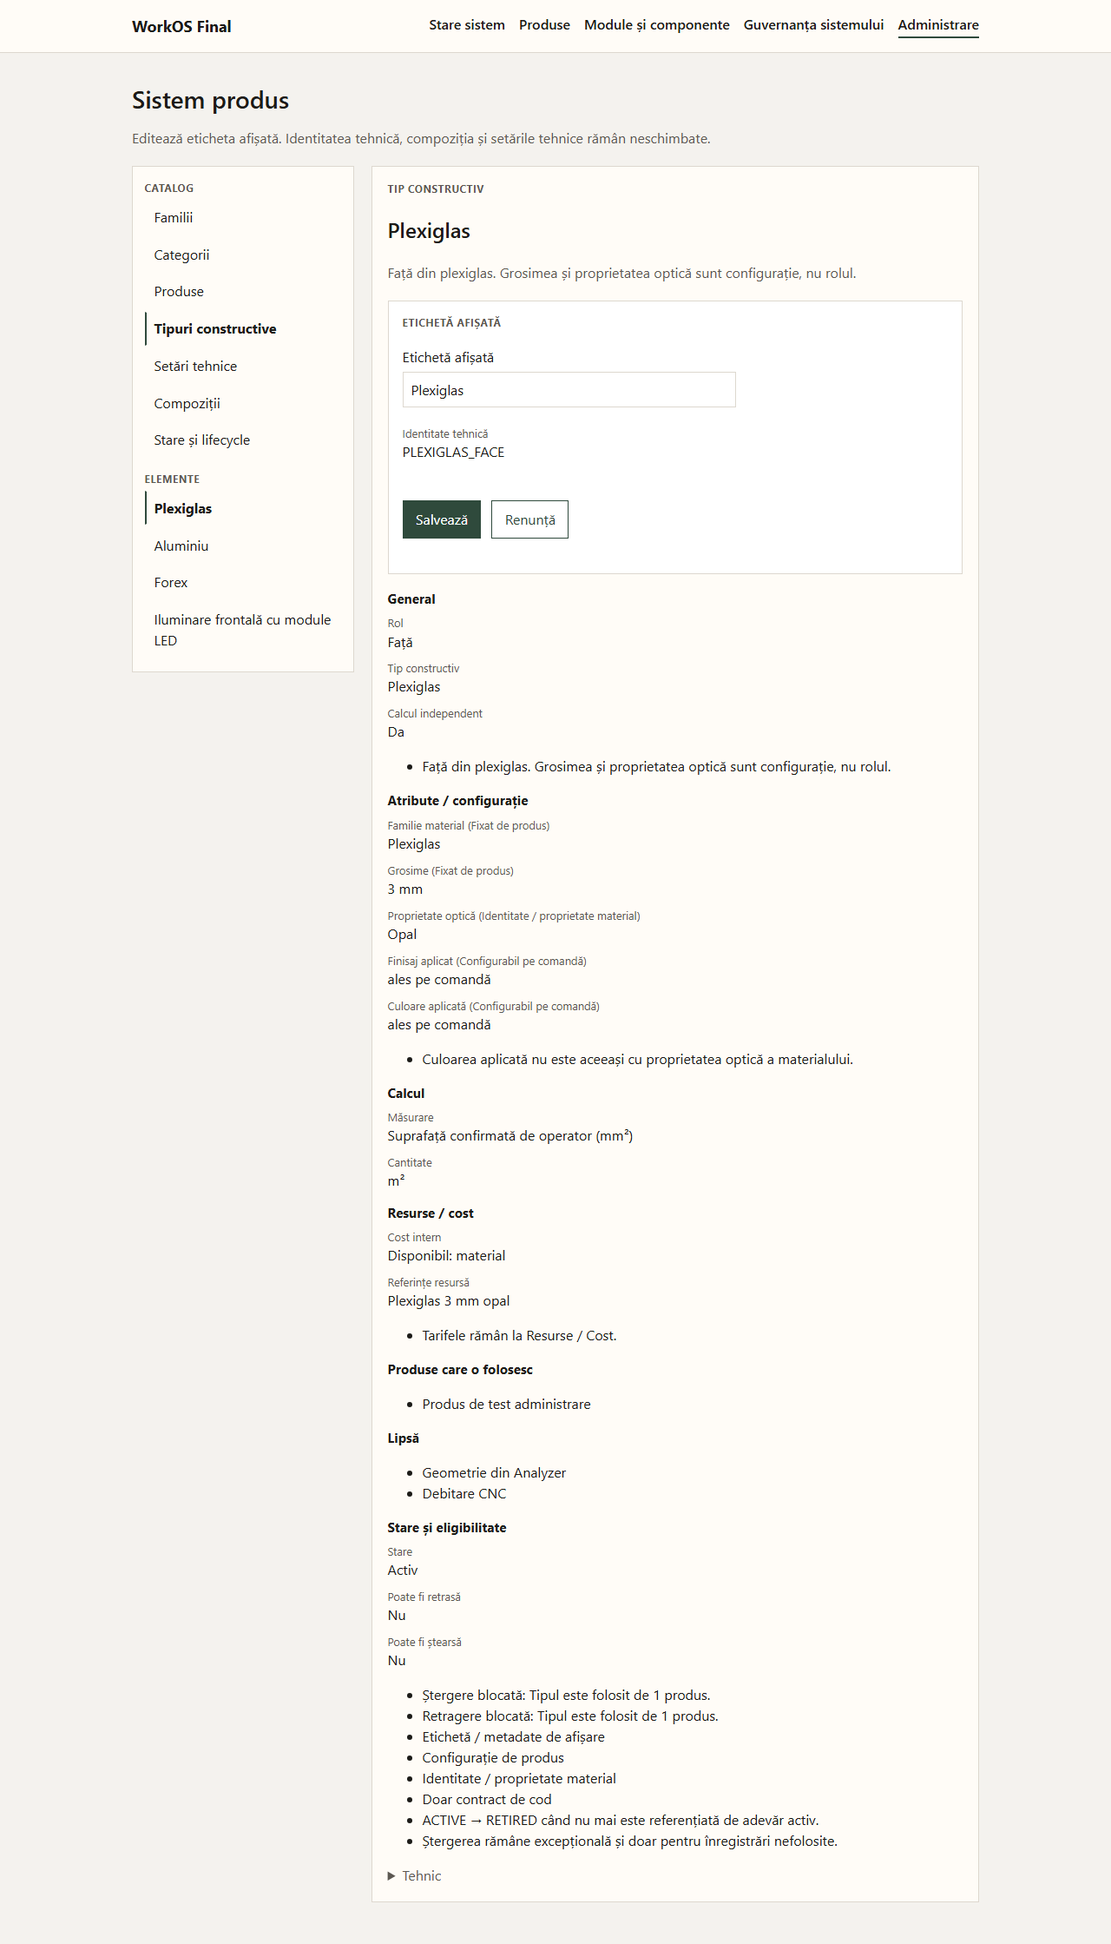
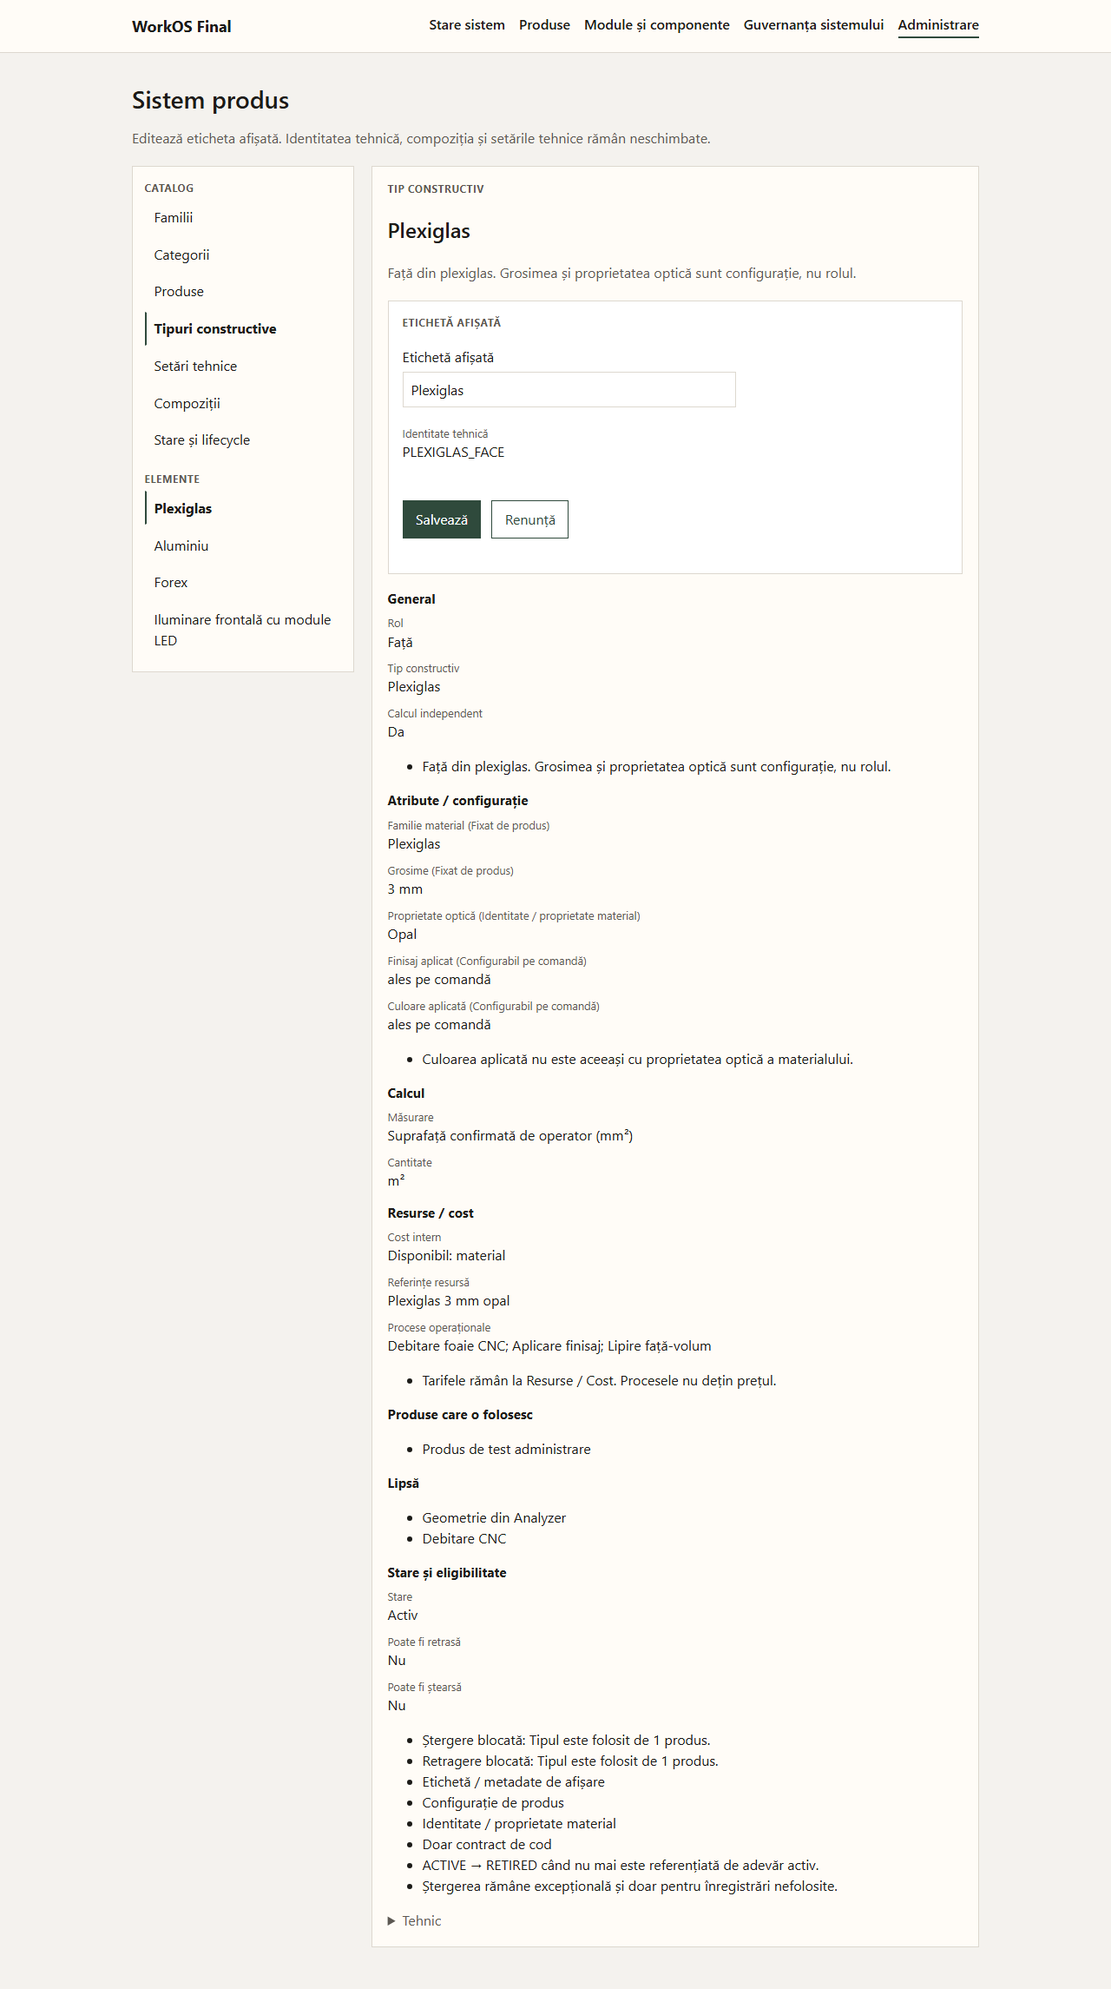
docs: record the Operational Processes foundation
Canon separates HOW work is done from WHAT is consumed. Workcenters, machines, and Execution stay out of this foundation.

diff --git a/docs/architecture/WORKOS_FINAL_SYSTEM_DOMAIN_AND_ADMINISTRATION_MAP.md b/docs/architecture/WORKOS_FINAL_SYSTEM_DOMAIN_AND_ADMINISTRATION_MAP.md
@@ -7,6 +7,8 @@ This document does not store adjustable runtime values.
 Related current canons:
 
 - `docs/architecture/PRODUCT_SYSTEM_TECHNICAL_SETTINGS_CANON.md` — technical settings single-truth
+- `docs/architecture/RESOURCES_AND_COST_CANON.md` — resource identity and cost evidence
+- `docs/architecture/OPERATIONAL_PROCESSES_CANON.md` — process definition and capability class
 - `docs/roadmap/WORKOS_FINAL_ROADMAP_V1.md` — construction order and finalization status
 - `packages/domain/src/capabilities.ts` — frozen capability IDs (kernel status remains PLANNED by design)
 - `packages/domain/src/governance/projection.ts` — honest implemented vs planned runtime projection
@@ -70,12 +72,14 @@ WorkOS Final
 │   ├── Form schema
 │   ├── ProductDefinition / ProductTruth
 │   └── ProductAggregate
-├── Resources / Cost                        FOUNDATION_ONLY (pilot catalog + EIC)
+├── Resources / Cost                        FOUNDATION_ONLY (catalog + EIC)
 │   ├── Resource identity
 │   ├── Cost evidence / rates
-│   ├── Operational processes               PLANNED
-│   ├── Labor / service recipes             PLANNED
-│   └── Workcenters                         PLANNED
+│   └── Labor / service recipes             PLANNED
+├── Operational Processes                   FOUNDATION_ONLY (typed catalog)
+│   ├── Process definition
+│   ├── Production capability class
+│   └── Component applicability
 ├── Governance / owner projections          IMPLEMENTED_CURRENT (read-only)
 ├── Analyzer                                NOT_IMPLEMENTED (separate app; proposal only)
 ├── Commercial                              PLANNED
@@ -108,7 +112,8 @@ Capability kernel IDs stay frozen and `PLANNED`. That does not mean the first pr
 | Product System | Family, category, template, composition, variants, component technical settings, allowed configuration | Purchase rates, commercial price, execution actuals, attendance |
 | Form / Intake | Schema, fields, visibility, order-specific operator input | System technical settings, formulas, rates, Product Truth |
 | Truth compiler | ProductDefinition, confirmation of the reviewed definition, ProductTruth, ProductAggregate | Resource catalogs, commercial price, actuals |
-| Resources / Cost | Resource identity, material family/spec, cost evidence, EIC | Customer price, stock, Product Truth, attendance, pontaj-as-price |
+| Resources / Cost | Resource identity, material family/spec, cost evidence, EIC | Process identity, customer price, stock, Product Truth, attendance |
+| Operational Processes | Process definition, required capability class, type applicability | Resource price, ExecutionTask, machine identity, employee |
 | Commercial | Customer price rules, Quote Snapshot, Order commercial freeze | EIC authority, ProductTemplate, execution actuals |
 | Execution | Plan, tasks, assignments, MachineRun, operational actuals | Attendance truth, rewriting Product Truth, historical commercial reprice |
 | People | Employee master, attendance / Pontaj, payments, advances | Execution session, labor recipe / cost basis, Product Truth |
@@ -147,7 +152,7 @@ Do not merge internal cost with Commercial. Do not put stock here.
 
 Admin inspection lives under `/admin` → Resurse și cost intern. No resource write yet.
 
-Current live catalog: Plexiglas 3 mm opal, Forex 10 mm, aluminium return profile 0.6 mm, forming service. Operational processes, labor recipes, and workcenters remain planned.
+Current live catalog: Plexiglas 3 mm opal, Forex 10 mm, aluminium return profile 0.6 mm, forming service. Labor recipes remain planned. Operational processes are a separate foundation.
 
 ## People / Angajați
 
@@ -283,7 +288,8 @@ Inside Administrare, use catalog navigation (category → item → detail), not 
 ```text
 Administrare
 ├── Sistem produs
-└── Resurse și cost intern
+├── Resurse și cost intern
+└── Procese operaționale
 ```
 
 Later domains (Persoane, Utilaje, Execuție, Pontaj, Setări platformă) stay off this catalog until they have real truth. Do not ship empty admin categories.
@@ -294,7 +300,7 @@ Later domains (Persoane, Utilaje, Execuție, Pontaj, Setări platformă) stay of
 |---|---|---|
 | Operator | Daily workflow | `/products` configure → review → confirm |
 | Owner projection | System honesty / inspection | `/components`, `/governance` |
-| Admin | Configure or inspect system truth | `/admin` — Product System display-label write; Resources inspection |
+| Admin | Configure or inspect system truth | `/admin` — Product System display-label write; Resources and Processes inspection |
 
 Do not mix system configuration into daily workflow.
 
@@ -343,7 +349,8 @@ Settings versions: keep previous active values as history after a new version is
 | Pilot resource catalog + partial EIC | FOUNDATION_ONLY |
 | Settings edit / persistence / versioning | PLANNED |
 | Global Administrare nav / display-label write | IMPLEMENTED_CURRENT |
-| Operational processes, labor recipes, workcenters | PLANNED |
+| Operational Processes foundation (typed catalog + capability class) | DONE / FOUNDATION |
+| Process admin write, labor recipes, workcenters | PLANNED / NOT_IMPLEMENTED |
 | Machines, People, Pontaj, Execution | PLANNED |
 | Commercial, Quote Snapshot, Order Snapshot | PLANNED |
 | Reporting, Documents | PLANNED |

diff --git a/docs/architecture/OPERATIONAL_PROCESSES_CANON.md b/docs/architecture/OPERATIONAL_PROCESSES_CANON.md
@@ -1,0 +1,96 @@
+# Operational Processes canon
+
+Canonical current law for reusable operational process definitions and shop-floor capability classes.
+Runtime wins if this document disagrees.
+
+## Permanent separation
+
+```text
+PRODUCT / COMPONENT
+  → says WHAT must exist
+PRODUCT AGGREGATE
+  → says WHAT quantities are required
+RESOURCE
+  → says WHAT is consumed and what it costs internally
+OPERATIONAL PROCESS
+  → says HOW work is performed
+CAPABILITY CLASS
+  → says WHAT kind of station / machine / skill can perform it
+EXECUTION TASK
+  → later says THIS job must perform THIS process
+MACHINE / WORKCENTER
+  → later provides the capability and may be selected
+EMPLOYEE
+  → later says WHO performs or assists
+```
+
+Do not collapse these layers.
+
+## Process definition
+
+A process has a stable ID, a Romanian display label, a category, one required capability class, applicable constructive types, a semantic outcome, optional resource/service references, lifecycle, and readiness.
+
+It does not have: machine ID, employee ID, order ID, actual time, assignment, or a global sequence number.
+
+## Capability class
+
+Shop-floor capability is not the architectural kernel in `capabilities.ts`.
+
+```text
+OperationalProcess → requires CapabilityClass
+Workcenter / Machine → later provides CapabilityClass
+Execution → later selects the concrete provider
+```
+
+Kinds in this foundation: MACHINE, WORKSTATION, HUMAN_SKILL.
+
+## Applicability and composition
+
+A process is reusable. `CUT_SHEET_CNC` applies to FACE and BACK.
+
+ProductTemplate / component composition will later choose required processes.
+Dependencies belong to that composition, not to a global 1/2/3 sequence.
+
+There must be exactly one future process-composition source. It compiles into ExecutionPlan.
+Rejected parallel authorities: dossier task rules, Intake dry-run tasks, separate product-graph task lists.
+
+## Resource / cost boundary
+
+A process may reference a Resource/Service. Forming references `return_cant_forming`.
+
+The process is not the price row. Resources / Cost remains monetary authority.
+EIC stays on ResourceRequirements. This foundation does not rewrite EIC.
+
+`return_cant_forming` is both:
+
+- a costable SERVICE resource
+- referenced by process `FORM_ALUMINIUM_PROFILE`
+
+They are linked, not merged.
+
+## Current live / known set
+
+| Process | Category | Capability | Types | Readiness |
+|---|---|---|---|---|
+| `CUT_SHEET_CNC` | CUTTING | CNC_ROUTING | FACE, BACK | KNOWN_PROCESS |
+| `FORM_ALUMINIUM_PROFILE` | FORMING | PROFILE_FORMING | VOLUME | IMPLEMENTED_PROCESS_FOUNDATION |
+| `APPLY_SURFACE_FINISH` | FINISHING | VINYL_APPLICATION | FACE, VOLUME | PLANNED |
+| `BOND_LETTER_BODY` | ASSEMBLY | MANUAL_ASSEMBLY | FACE, VOLUME | PLANNED |
+| `PLACE_LED_MODULES` | ELECTRICAL | ELECTRICAL_ASSEMBLY | LIGHTING | BLOCKED |
+
+QC, packing, installation prep, and a full Letters DAG are not modelled.
+
+## Persistence and administration
+
+Typed catalog is authority. No process write. No SQLite process table.
+
+`/admin` → Procese operaționale is inspection: Categorii, Procese, Capabilități necesare.
+`/products` does not administer processes.
+
+## Reserved, not implemented
+
+- ExecutionPlan / ExecutionTask
+- Workcenters / Machines / capacity
+- Labor recipes / employee wage
+- CNC pricing / geometry
+- Process CRUD

diff --git a/docs/worklog/WORKOS_FINAL_OPERATIONAL_PROCESSES_FOUNDATION_V1.md b/docs/worklog/WORKOS_FINAL_OPERATIONAL_PROCESSES_FOUNDATION_V1.md
@@ -1,0 +1,96 @@
+# WORKOS_FINAL_OPERATIONAL_PROCESSES_FOUNDATION_V1
+
+## Baseline
+
+- Repo: `office952/workos-final`
+- Branch: `main`
+- Expected baseline: `73474e93c69a4d1cd4ef54e9df3a4993ceb7af5b`
+
+## Legacy audit
+
+Current repo had no process catalog. FACE/BACK gaps named „Debitare CNC”. VOLUME consumed `return_cant_forming` as a SERVICE cost row, not as HOW.
+
+Canon already rejected three parallel legacy task truths: dossier rules, Intake dry-run tasks, product-graph lists. Machine SKU on process is a rejected pattern. Architectural `capabilities.ts` IDs are system ownership, not shop-floor capability.
+
+`office952/workos-vscode` was not present locally; rejected patterns were taken from the current administration map, not copied as code.
+
+## Accepted process model
+
+```text
+COMPONENT / PRODUCT
+  → PROCESS REQUIREMENT (derived applicability)
+    → OPERATIONAL PROCESS
+      → CAPABILITY CLASS
+        → later WORKCENTER / MACHINE
+        → later EXECUTION TASK
+```
+
+`return_cant_forming` remains the SERVICE price row.
+`FORM_ALUMINIUM_PROFILE` is the process that may consume it.
+
+## Current process set
+
+| ID | Readiness | Why included |
+|---|---|---|
+| `CUT_SHEET_CNC` | KNOWN_PROCESS | Reusable machine process; FACE + BACK |
+| `FORM_ALUMINIUM_PROFILE` | IMPLEMENTED_PROCESS_FOUNDATION | Live service link; VOLUME |
+| `APPLY_SURFACE_FINISH` | PLANNED | Finish exists as order config |
+| `BOND_LETTER_BODY` | PLANNED | Manual process without employee |
+| `PLACE_LED_MODULES` | BLOCKED | Lighting / PSU incomplete |
+
+QC, packing, installation, and a full DAG were left NOT_YET_MODELLED.
+
+## Capability model
+
+CNC_ROUTING, PROFILE_FORMING, MANUAL_ASSEMBLY, VINYL_APPLICATION, ELECTRICAL_ASSEMBLY.
+Kinds: MACHINE / WORKSTATION / HUMAN_SKILL.
+No machine IDs. No reuse of PRODUCT/EXECUTION kernel IDs.
+
+## Component applicability
+
+Derived from `applicableTypeIds`. Not copied into ProductTemplate or `calculate()`.
+
+## Boundaries
+
+- Resources: forming references the service; process does not own amount/currency
+- EIC: unchanged 320.50 EUR
+- Machines / workcenters: documented relation only
+- Execution: future task may store `processId`; catalog has no instance fields
+- Dependencies: no global sequence; composition later
+
+## Cleanup
+
+No process arrays were found on templates. No machine coupling to remove. CNC remains a gap on FACE/BACK calculation, now also a named process.
+
+## UI
+
+`/admin` → Procese operaționale: Categorii / Procese / Capabilități necesare. Read-only.
+`/components` shows process labels on the type. `/products` unchanged.
+
+## Tests
+
+- `pnpm lint` PASS
+- `pnpm typecheck` PASS
+- `pnpm test` PASS (domain 87, api 17, web 17)
+- `pnpm build` PASS
+- `pnpm e2e` PASS (6)
+- `git diff --check` PASS
+
+Canonical product EIC remains 320.50 EUR PARTIAL.
+
+## Persistence
+
+Typed catalog. No process SQLite table. No write.
+
+## Remaining gaps
+
+- Product/process composition for Letters
+- Workcenters / Machines
+- Labor recipes
+- CNC pricing / geometry
+- Lighting after PSU
+- Process write
+
+## Next recommendation
+
+Re-evaluate among: Letters process composition, Workcenters/Machines, Lighting after PSU, versioned settings write, labor recipes. Do not auto-pick.

diff --git a/AGENTS.md b/AGENTS.md
@@ -8,7 +8,7 @@ It is not a cleanup or fork of previous WorkOS repositories.
 Hierarchical product catalog plus first canonical LETTERS product.
 FACE / VOLUME / BACK / LIGHTING are stable component roles. Constructive types and product configuration are separate. See `docs/architecture/PRODUCT_SYSTEM_COMPONENT_CONFIGURATION_CANON.md`.
 Owner-facing projections: Module și componente, Guvernanța sistemului, Administrare.
-`/components` is the Product System inspection surface. `/admin` is the owner surface: Product System display-label write and Resources / Cost inspection. The first persisted write is display-label only.
+`/components` is the Product System inspection surface. `/admin` is the owner surface: Product System display-label write, Resources / Cost inspection, and Operational Processes inspection. The first persisted write is display-label only.
 Cross-system domain and administration map is canonical; do not invent a second admin model per domain.
 ProductTemplate composes roles/types and owns allowed/fixed configuration. ProductAggregate orchestrates. EIC is generic.
 LIGHTING remains unavailable: LED pitch is a canonical component setting; PSU reserve remains owner-undecided.
@@ -44,4 +44,4 @@ Do not implement Commercial, Quote, ACM, Analyzer runtime, a second catalog prod
 
 ## Bootstrap proof
 
-The current app has a platform shell, a real health check, a product catalog, Product System inspection on `/components`, persisted display-label administration on `/admin`, Resources / Cost inspection under `/admin/resources`, owner-facing governance, one canonical front-lit plexi/aluminium letters product, component-owned FACE / VOLUME / BACK calculations with partial internal EIC, a reusable material-family/specification catalog, canonical component technical settings, and lighting left unavailable because PSU reserve is still owner-undecided.
+The current app has a platform shell, a real health check, a product catalog, Product System inspection on `/components`, persisted display-label administration on `/admin`, Resources / Cost inspection under `/admin/resources`, Operational Processes inspection under `/admin/processes`, owner-facing governance, one canonical front-lit plexi/aluminium letters product, component-owned FACE / VOLUME / BACK calculations with partial internal EIC, a reusable material-family/specification catalog, a typed operational-process catalog with shop-floor capability classes, canonical component technical settings, and lighting left unavailable because PSU reserve is still owner-undecided.

diff --git a/docs/README.md b/docs/README.md
@@ -11,6 +11,7 @@ These describe the live system. If they disagree with runtime, the runtime wins 
 - `docs/architecture/PRODUCT_SYSTEM_COMPONENT_CONFIGURATION_CANON.md` — role / type / configuration law
 - `docs/architecture/PRODUCT_SYSTEM_PERSISTENCE_CANON.md` — persisted display metadata and first write path
 - `docs/architecture/RESOURCES_AND_COST_CANON.md` — resource identity, material family/spec, cost evidence
+- `docs/architecture/OPERATIONAL_PROCESSES_CANON.md` — process definition and shop-floor capability class
 - `docs/architecture/WORKOS_FINAL_SYSTEM_DOMAIN_AND_ADMINISTRATION_MAP.md` — cross-system domain and administration map
 - `docs/worklog/WORKOS_FINAL_COMPONENT_FIRST_CALCULATION_ARCHITECTURE_V1.md` — current calculation ownership
 - `docs/worklog/WORKOS_FINAL_COMPONENTS_AND_GOVERNANCE_PROJECTION_V1.md` — owner-facing projections
@@ -21,6 +22,7 @@ These describe the live system. If they disagree with runtime, the runtime wins 
 - `docs/worklog/WORKOS_FINAL_COMPONENT_CONFIGURATION_MODEL_REALIGNMENT_AND_CLEANUP_V1.md` — role/type/configuration realignment
 - `docs/worklog/WORKOS_FINAL_PRODUCT_SYSTEM_PERSISTENCE_AND_FIRST_WRITE_PATH_V1.md` — first persisted display-label write
 - `docs/worklog/WORKOS_FINAL_RESOURCES_AND_COST_CATALOG_FOUNDATION_V1.md` — Resources / Cost catalog foundation
+- `docs/worklog/WORKOS_FINAL_OPERATIONAL_PROCESSES_FOUNDATION_V1.md` — Operational Processes foundation
 
 ## Historical evidence
 

diff --git a/docs/roadmap/WORKOS_FINAL_ROADMAP_V1.md b/docs/roadmap/WORKOS_FINAL_ROADMAP_V1.md
@@ -41,6 +41,7 @@ FACE / VOLUME / BACK / LIGHTING are component roles with reusable constructive t
 Owner-facing projections exist for components, governance, Product System administration, and Resources / Cost inspection. Display labels are persisted.
 ProductAggregate orchestrates. EIC consumes generic requirements.
 Resources now separate material family, specification, service, and cost evidence.
+Operational Processes now separate HOW work is done from WHAT is consumed.
 LIGHTING remains technically partial: LED pitch is a canonical component setting; PSU reserve remains unresolved.
 VOLUME EIC regression preserved (formerly RETURN_CANT).
 
@@ -69,7 +70,8 @@ Cross-system ownership: `docs/architecture/WORKOS_FINAL_SYSTEM_DOMAIN_AND_ADMINI
 | Product System administration foundation (inspection) | DONE / FOUNDATION |
 | Product System first real admin write path (display label) | DONE / FOUNDATION |
 | Resources / Cost catalog foundation (identity, family/spec, service, cost evidence) | DONE / FOUNDATION |
-| Resources admin write | NOT_IMPLEMENTED |
+| Operational Processes foundation (process + capability class) | DONE / FOUNDATION |
+| Resources admin write / process admin write | NOT_IMPLEMENTED |
 | Lighting calculation | V1 REQUIRED after PSU owner decision |
 | People, Machines, Pontaj, Execution | LATER |
 | Commercial, Quote Snapshot, Order Snapshot | LATER |

diff --git a/README.md b/README.md
@@ -6,7 +6,7 @@ This is not a cleanup of previous WorkOS code and not a fork of workflow-adv.
 
 ## Current status
 
-Product catalog plus first canonical LETTERS product, with FACE / VOLUME / BACK / LIGHTING as roles, reusable constructive types, Product System inspection on `/components`, persisted display-label administration on `/admin`, Resources / Cost inspection on `/admin/resources`, owner-facing governance, canonical component technical settings, and lighting left incomplete because PSU reserve is still owner-undecided.
+Product catalog plus first canonical LETTERS product, with FACE / VOLUME / BACK / LIGHTING as roles, reusable constructive types, Product System inspection on `/components`, persisted display-label administration on `/admin`, Resources / Cost inspection on `/admin/resources`, Operational Processes inspection on `/admin/processes`, owner-facing governance, canonical component technical settings, and lighting left incomplete because PSU reserve is still owner-undecided.
 
 The app has a platform shell, a real health check, a hierarchical product catalog, and a schema-driven configuration flow for the first canonical product. Product System display labels persist in local SQLite after bootstrap. Resources remain a typed catalog. Technical settings, lifecycle, resource cost, and commercial price are not writable yet.
 

diff --git a/docs/architecture/RESOURCES_AND_COST_CANON.md b/docs/architecture/RESOURCES_AND_COST_CANON.md
@@ -32,7 +32,7 @@ Live kinds:
 - `SERVICE` — operational/process cost consumed, not a physical material
 
 Do not force labor recipes, operational processes, workcenters, or machines into the same entity.
-Those remain planned catalogs.
+Operational Processes now have their own canon: `docs/architecture/OPERATIONAL_PROCESSES_CANON.md`.
 
 ## Material family vs specification
 
@@ -116,7 +116,7 @@ Where-used is derived from live type resolution and product composition.
 
 - Inventory / stock / availability
 - Supplier / purchase orders
-- Operational processes
+- Operational process identity (owned by Operational Processes)
 - Workcenters
 - Machines
 - Labor recipes

diff --git a/docs/architecture/PRODUCT_SYSTEM_COMPONENT_CONFIGURATION_CANON.md b/docs/architecture/PRODUCT_SYSTEM_COMPONENT_CONFIGURATION_CANON.md
@@ -65,3 +65,5 @@ Material, thickness, depth, area, and rates are not technical settings.
 Configuration resolves to a resource identity. Resources own the rate.
 
 FACE 3 mm opal resolves to `plexiglas_3mm_opal` in the Plexiglas family. See `docs/architecture/RESOURCES_AND_COST_CANON.md`. Do not invent SKUs here.
+
+How work is performed belongs to Operational Processes, not to the calculation contract. See `docs/architecture/OPERATIONAL_PROCESSES_CANON.md`.
